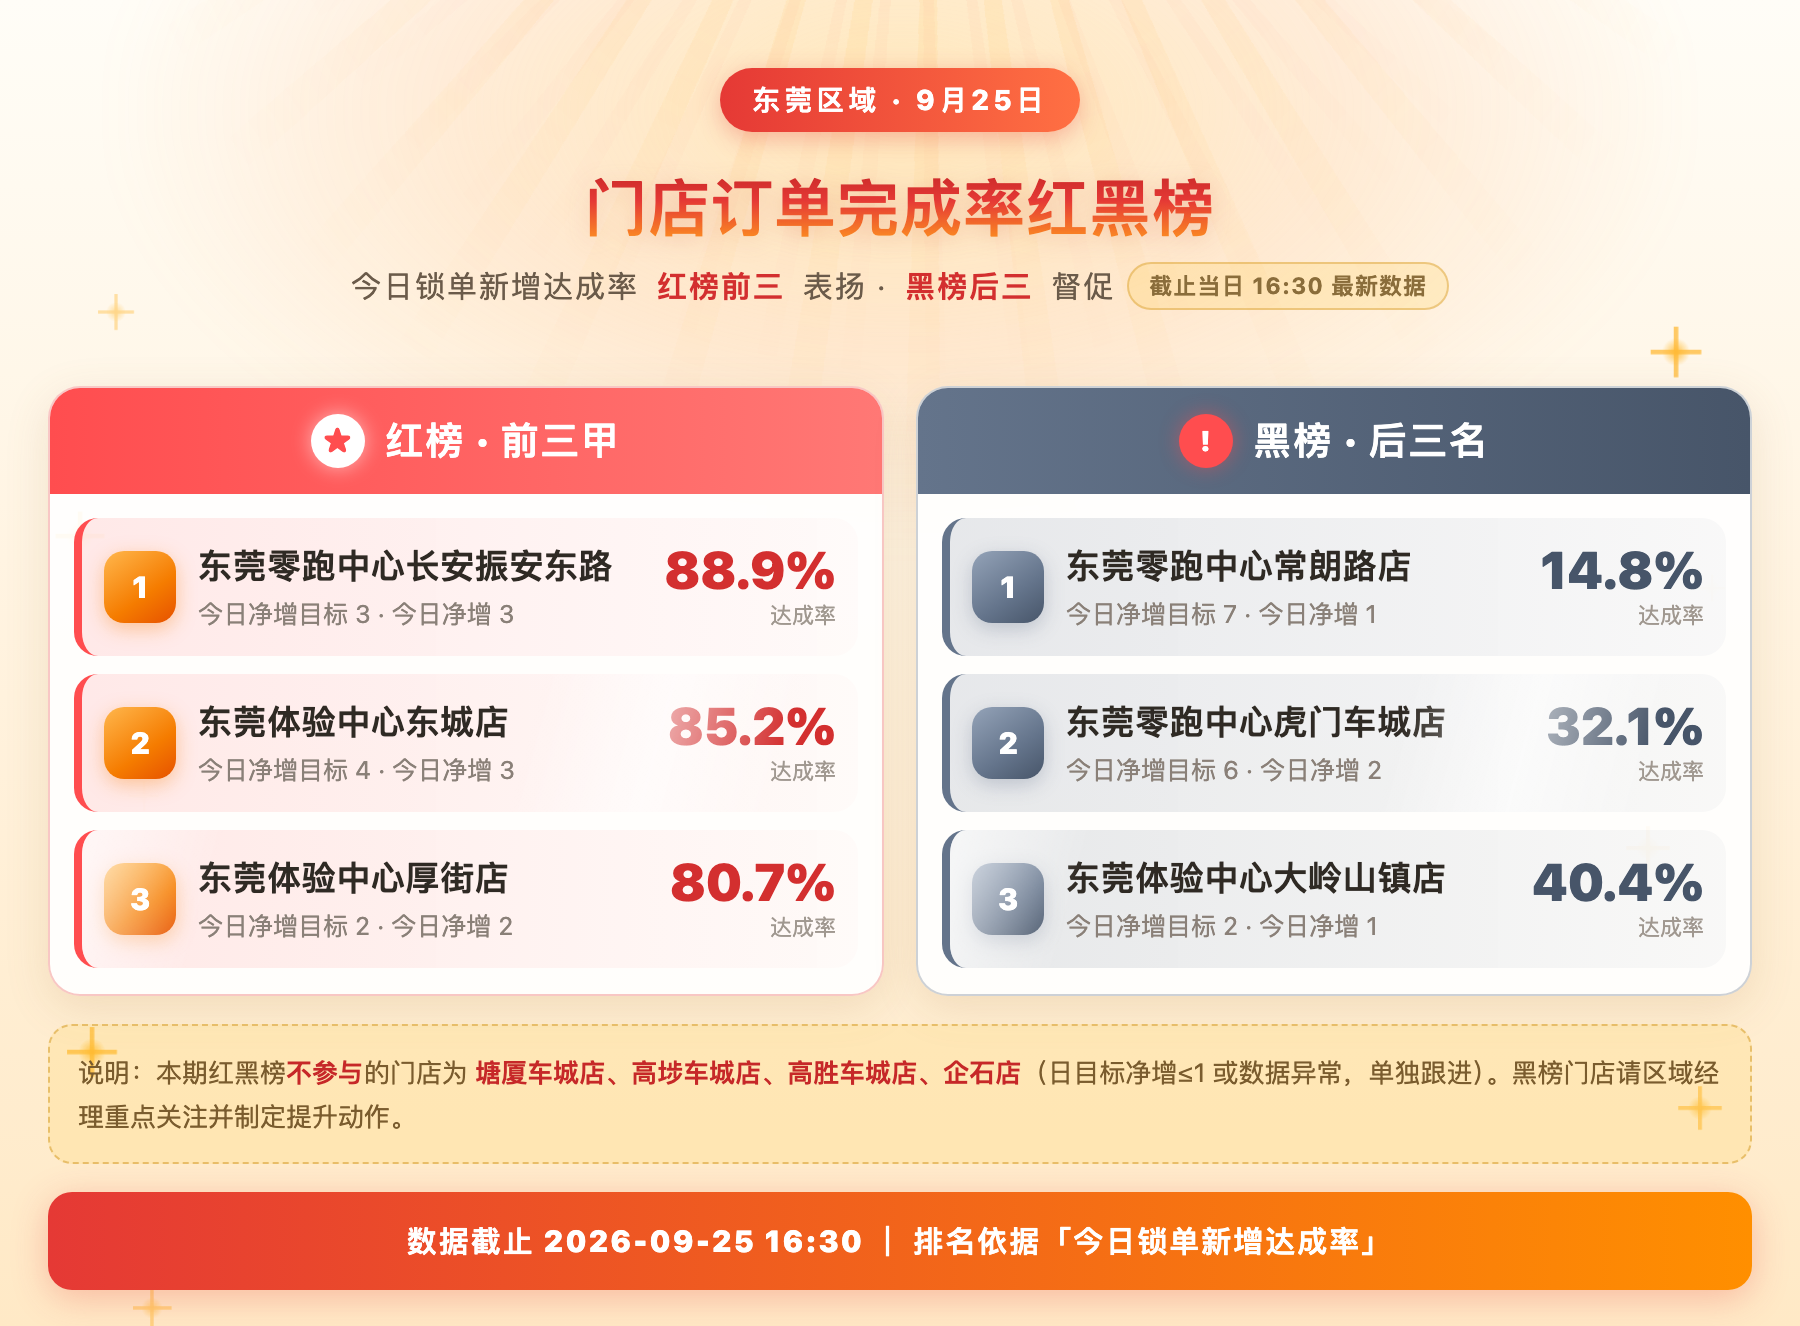
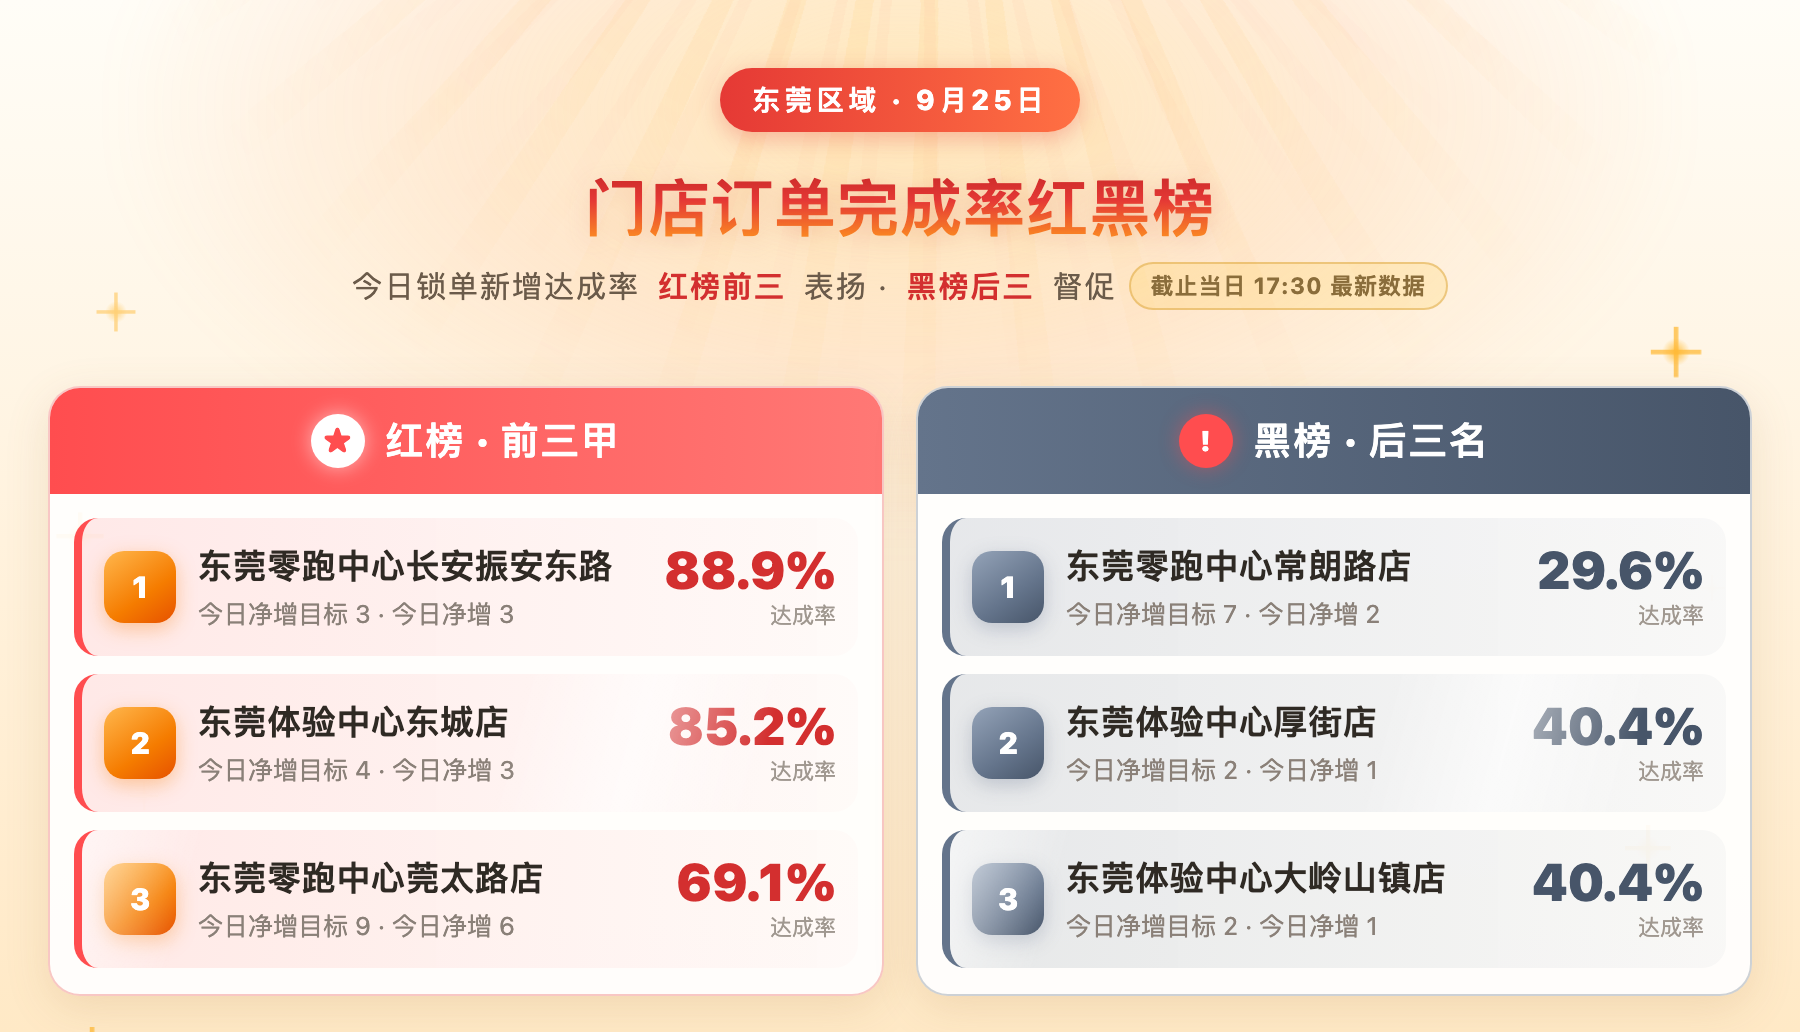
9/25红黑榜更新17:30数据：莞太路进红榜，厚街进黑榜；去掉底部说明文字

diff --git a/index.html b/index.html
@@ -144,7 +144,7 @@
   <header>
     <span class='eyebrow'>东莞区域 · 9月25日</span>
     <h1>门店订单完成率红黑榜</h1>
-    <p class='sub'>今日锁单新增达成率<b>红榜前三</b>表扬 · <b>黑榜后三</b>督促<span class='subtime'>截止当日 16:30 最新数据</span></p>
+    <p class='sub'>今日锁单新增达成率<b>红榜前三</b>表扬 · <b>黑榜后三</b>督促<span class='subtime'>截止当日 17:30 最新数据</span></p>
   </header>
 
   <div class='sections'>
@@ -170,10 +170,10 @@
         <div class='store'>
           <span class='rank'>3</span>
           <div class='info'>
-            <div class='name'>东莞体验中心厚街店</div>
-            <div class='meta'>今日净增目标 2 · 今日净增 2</div>
+            <div class='name'>东莞零跑中心莞太路店</div>
+            <div class='meta'>今日净增目标 9 · 今日净增 6</div>
           </div>
-          <div class='rate'><div class='rnum'>80.7%</div><div class='rlab'>达成率</div></div>
+          <div class='rate'><div class='rnum'>69.1%</div><div class='rlab'>达成率</div></div>
         </div>
       </div>
     </div>
@@ -185,17 +185,17 @@
           <span class='rank'>1</span>
           <div class='info'>
             <div class='name'>东莞零跑中心常朗路店</div>
-            <div class='meta'>今日净增目标 7 · 今日净增 1</div>
+            <div class='meta'>今日净增目标 7 · 今日净增 2</div>
           </div>
-          <div class='rate'><div class='rnum'>14.8%</div><div class='rlab'>达成率</div></div>
+          <div class='rate'><div class='rnum'>29.6%</div><div class='rlab'>达成率</div></div>
         </div>
         <div class='store'>
           <span class='rank'>2</span>
           <div class='info'>
-            <div class='name'>东莞零跑中心虎门车城店</div>
-            <div class='meta'>今日净增目标 6 · 今日净增 2</div>
+            <div class='name'>东莞体验中心厚街店</div>
+            <div class='meta'>今日净增目标 2 · 今日净增 1</div>
           </div>
-          <div class='rate'><div class='rnum'>32.1%</div><div class='rlab'>达成率</div></div>
+          <div class='rate'><div class='rnum'>40.4%</div><div class='rlab'>达成率</div></div>
         </div>
         <div class='store'>
           <span class='rank'>3</span>
@@ -208,10 +208,6 @@
       </div>
     </div>
   </div>
-
-  <div class='note'>说明：本期红黑榜<b>不参与</b>的门店为 <b>塘厦车城店、高埗车城店、高胜车城店、企石店</b>（日目标净增≤1 或数据异常，单独跟进）。黑榜门店请区域经理重点关注并制定提升动作。</div>
-
-  <div class='foot'>数据截止 2026-09-25 16:30 ｜ 排名依据「今日锁单新增达成率」</div>
 
   <div class='dlwrap'><a class='dl' href='red-black-board.png' download='东莞区域门店红黑榜-9月25日.png'>保存高清长图</a></div>
 </div>
